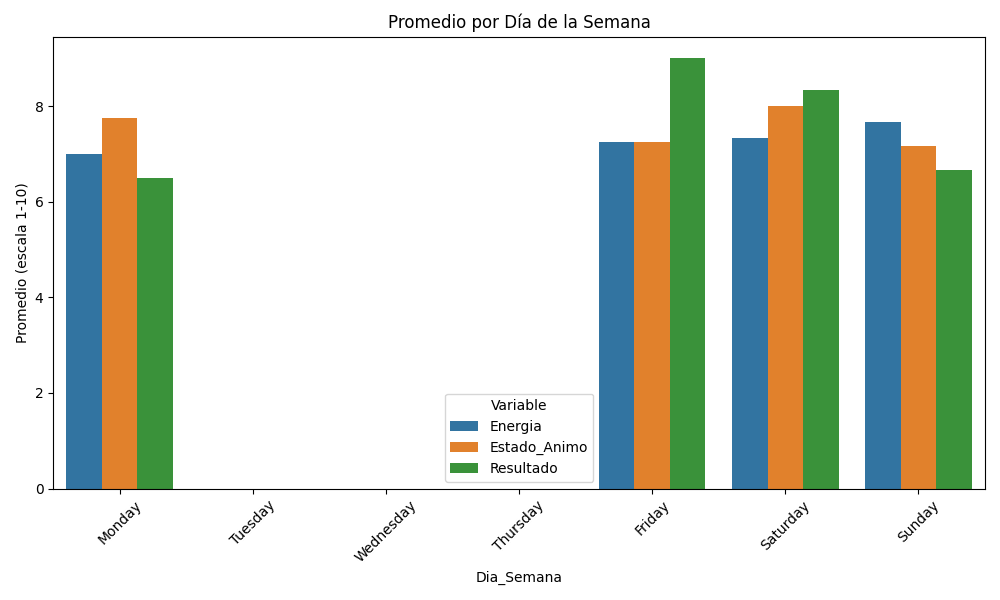
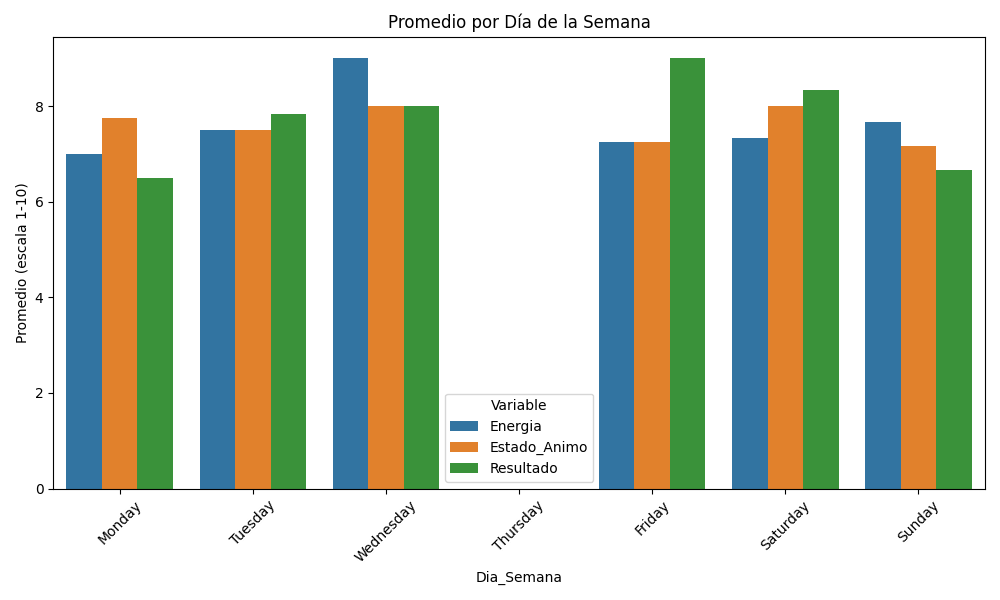
Finalización de la primera fase, creación de la estructura del proyecto con registro de datos basicos. Prueba de la primera fase completada. Inicio segunda fase, adaptar a un objetivo real

Changed region(s): [[0.186, 0.09, 0.465, 0.84]]

diff --git a/fase1_ingreso/registro_streamlit.py b/fase1_ingreso/registro_streamlit.py
@@ -1,6 +1,6 @@
 import streamlit as st
 import pandas as pd
-from datetime import datetime
+from datetime import datetime, timedelta
 import os
 import subprocess
 

diff --git a/docs/roadmap_neurociach_v2.md b/docs/roadmap_neurociach_v2.md
@@ -1,0 +1,81 @@
+# 🧬 Neurocoach IA – Roadmap para Aprendizaje Personalizado
+
+## 🎯 Visión Específica: Sistema de Aprendizaje Acelerado Individualizado
+Crear una IA que, combinando inputs cognitivos, patrones mentales y tecnologías de IA, permita generar un **modelo de aprendizaje único por persona**, adaptado a su forma de razonar, sus momentos de mayor receptividad, y su estilo cognitivo.
+
+Inspirado por la neurociencia, este sistema no solo se adapta al usuario: **aprende a pensar como él** y optimiza sus sesiones de estudio o trabajo en base a datos reales, incluyendo inputs subjetivos (reflexiones, símbolos, emociones).
+
+---
+
+## 🚀 Roadmap Evolutivo (Versión Aprendizaje Personalizado)
+
+### 🔹 Nivel 1 – Fundamento Cognitivo *(COMPLETADO)*
+- Registro diario (energía, estado de ánimo, tipo de tarea, resultado).
+- Almacenamiento en CSV + logs.
+- Análisis semanal básico con exportación.
+
+### 🔹 Nivel 2 – Machine Learning Personalizado *(EN CURSO)*
+- Entrenamiento continuo de modelo predictivo (ej: `RandomForest`).
+- Exportación automática tras cada registro.
+- Evaluación con MAE y R² (para iterar).
+
+### 🔹 Nivel 3 – Captura de Razonamiento y Fase Cognitiva *(NUEVO)*
+- Nuevos campos en el formulario:
+  - Fase mental (flow, desconexión lúcida, etc.)
+  - Imagen simbólica mental del día (texto o future upload)
+  - Descripción del tipo de pensamiento (intuitivo, lógico, caótico…)
+- Análisis de correlaciones entre estos estados y rendimiento.
+
+### 🔹 Nivel 4 – Agrupación Cognitiva (Clustering)
+- Detección de tipos de día o fases mentales frecuentes.
+- Etiquetado automático para saber cuándo un día es “receptivo”, “bloqueado” o “creativo”.
+- Preparación para personalizar sesiones según tipo de día.
+
+### 🔹 Nivel 5 – Entrenamiento Acelerado Adaptativo *(OBJETIVO CLAVE)*
+- Integración de sesiones de input (ej: escuchar inglés 12h).
+- Registro de señales internas: fatiga, concentración, momentos de claridad.
+- Recomendaciones futuras según curva de aprendizaje real.
+
+### 🔹 Nivel 6 – Dashboard de Metaconsciencia
+- Visualizaciones de tipos de pensamiento y días óptimos.
+- Evolución del patrón de razonamiento con el tiempo.
+- Indicadores de cuándo hacer pausas, cuándo estudiar o retener conceptos.
+
+### 🔹 Nivel 7 – Entrenamiento Multimodal
+- Ingreso de texto + voz + dibujo (en el futuro)
+- Reconocimiento de patrones semánticos o simbólicos personales
+- Generación de rituales de aprendizaje propios
+
+---
+
+## 🔬 Tu experimento en 11 días: ¿Cómo prepararte?
+
+### 🎥 Idea: 12h de input intensivo en inglés + autoobservación mental
+
+### ✅ Qué puedes monitorear:
+- Estado emocional cada 2h
+- Nivel de fatiga y energía percibida
+- ¿Hubo momentos de “absorción pasiva”? (fase adormecida con foco)
+- ¿Qué parte del contenido se te quedó sin esfuerzo?
+- ¿Qué ideas visuales/símbolos/palabras surgieron sin buscarlas?
+- ¿Qué tipo de pensamiento predominó (fluido, lógico, hiperactivo…)?
+- Breve diario post-jornada: "¿Qué aprendí sin querer aprender?"
+
+### 🧪 Qué hacer con esos datos:
+- Registrarlos en el sistema cada 2–3 horas como si fueran “minisesiones”
+- Añadir columna tipo: `Momento_clave`, `Fase_mental`, `Símbolo_dia`
+- Analizar al final del día correlaciones entre percepción, fatiga y retención
+
+---
+
+## 💡 Filosofía de esta versión
+Este no es solo un sistema de IA.
+Es una plataforma para **descubrir cómo aprendes mejor**.
+
+Te da herramientas para autoconocerte, y luego crea un camino de entrenamiento cognitivo que va a tu ritmo, tu estilo, tu profundidad.
+
+> *Aprender a aprender* como nunca antes.
+
+---
+¿Listo para lanzar el experimento en tu semana libre? 😎
+

diff --git a/README.md b/README.md
@@ -3,3 +3,49 @@
 
 > 🎯 Un sistema inteligente que analiza cómo aprendes, cómo rindes en distintos momentos del día, y qué tipo de estímulo o enfoque te hace avanzar más, para ayudarte a potenciar tu desarrollo cognitivo y maximizar tu rendimiento en cualquier área de aprendizaje (idiomas, IA, productividad… lo que tú quieras).
 >
+
+# 🧠 Fase 2 – Aprendizaje Personalizado
+
+Esta carpeta contiene los módulos relacionados con la segunda gran fase del proyecto **Neurocoach IA**, centrada en el objetivo principal de Marc: construir un modelo de aprendizaje acelerado y personalizado por usuario.
+
+---
+
+## 🎯 Objetivo de esta fase
+
+Crear un sistema que, a partir de los datos ya recogidos más nuevos inputs cognitivos, pueda identificar:
+
+- Tipos de pensamiento predominantes
+- Fases mentales óptimas para aprender
+- Claves simbólicas personales
+- Días especialmente receptivos para la adquisición inconsciente de conocimiento
+
+Esto permitirá entrenar una IA que no solo predice bienestar, sino que **acompaña y optimiza el proceso de aprender**.
+
+---
+
+## 📂 Subfases de desarrollo
+
+### `01_extensiones_input/`
+Formulario actualizado para:
+- Registrar fase mental
+- Tipo de pensamiento
+- Símbolo del día
+
+### `02_monitorizacion_experimento/`
+Scripts y plantillas para registrar datos durante sesiones intensivas (ej. 12h de input audiovisual).
+
+### `03_clustering_fases/`
+Modelos de agrupación de días por patrón cognitivo (KMeans, DBSCAN, etc).
+
+### `04_modelo_adaptativo/`
+Modelos que ajustan recomendaciones y estrategias según el tipo de día del usuario.
+
+---
+
+## 🧪 En preparación
+Marc usará esta fase para documentar un experimento real consigo mismo, con sesiones de entrenamiento intensivo y autoobservación.
+
+¡Una base única para diseñar un sistema de metaconciencia aplicada al aprendizaje!
+
+> "No solo aprendas. Aprende cómo aprendes."
+
